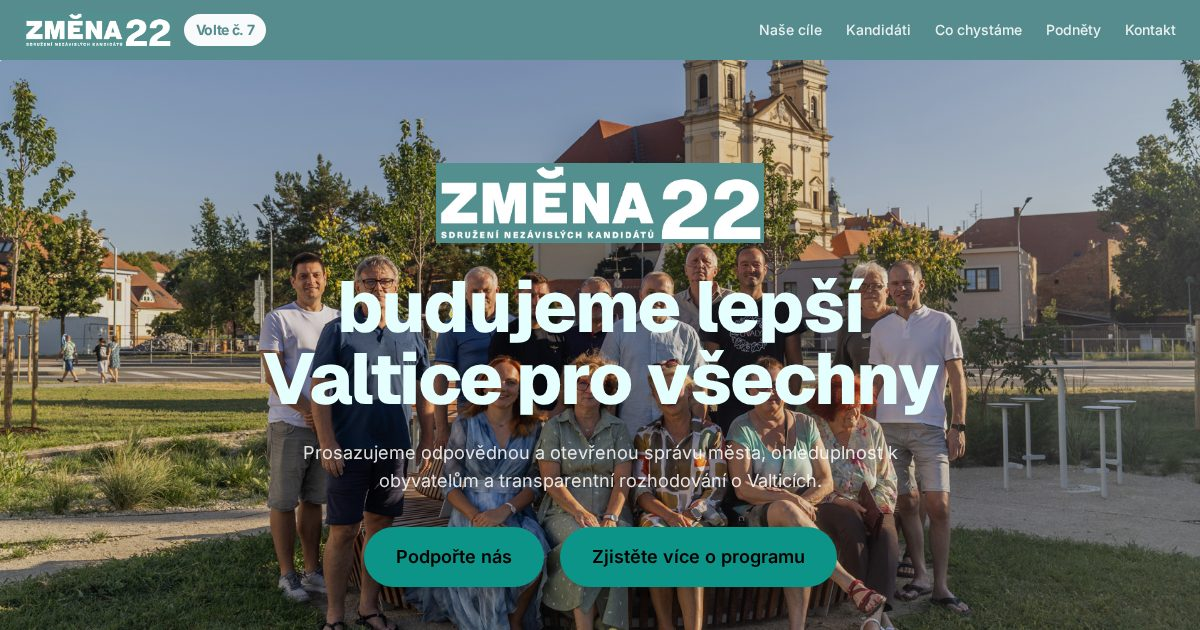
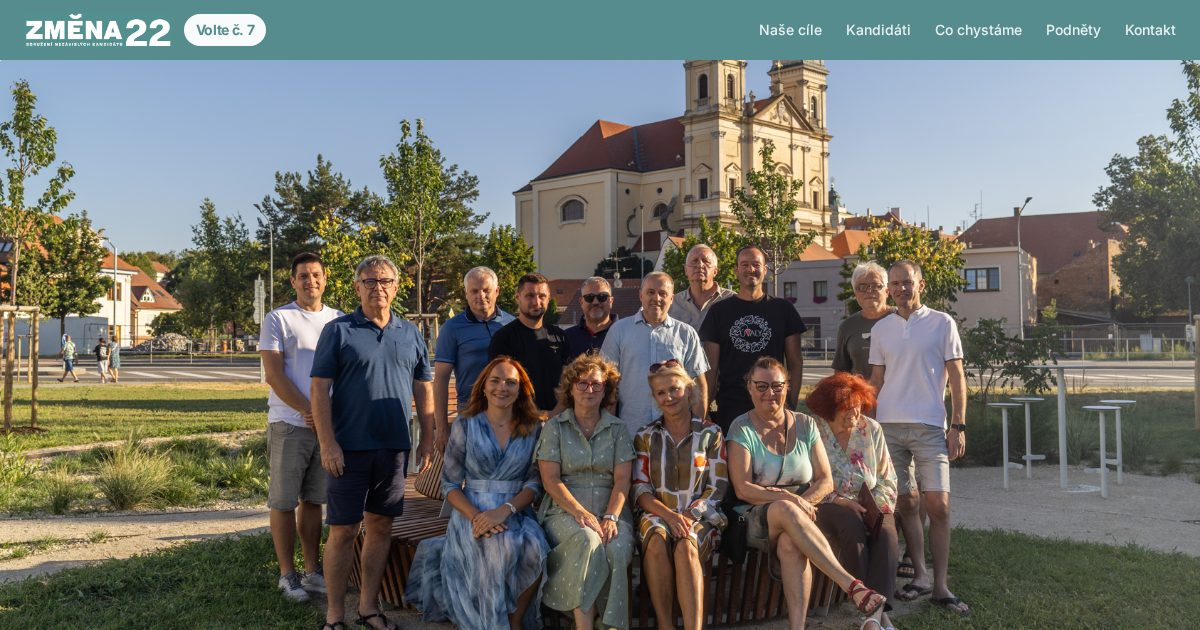
Deploy website: Změna22 Valtice

diff --git a/index.html b/index.html
@@ -3,6 +3,7 @@
   <head>
     <meta charset="UTF-8" />
     <meta name="viewport" content="width=device-width, initial-scale=1.0" />
+    <link rel="icon" href="/images/favicon-1.png" />
     <meta name="description" content="Vytvoř webovou stránku pro kampaň Změna22 ve Valticích. Web má obsahovat: 1) úvodní hero sekci se společnou stock fotografií týmu jako dočasným zástupným obrázkem, hlavním textem a výzvou; 2) sekci „Naše cíle / program“ s hlavními prioritami a plánovanými změnami; 3) sekci „Kandidáti“ s profilovými kartami kandidátů a zástupnými stock fotografiemi, které bude možné později vyměnit za skutečné fotografie; 4) sekci „Co chystáme“ s připravovanými kroky, projekty a aktivitami; 5) sekci „Co už se nám povedlo“ s dosavadními výsledky a konkrétními úspěchy; 6) samostatný formulář „Podněty od návštěvníků“ před kontaktním formulářem, umožňující odeslat nápad, připomínku nebo problém ve městě, s poli Jméno (nepovinné), E-mail (nepovinný), Téma podnětu, Popis podnětu, Lokalita nebo ulice (nepovinné) a možností přiložit fotografii; u formuláře použij text „Máte nápad nebo připomínku? Napište nám, co by podle vás ve Valticích mělo fungovat lépe. Každý podnět si přečteme a pomůže nám lépe hájit potřeby našeho města.“; 7) závěrečný kontaktní formulář s heslem „Pomozte nám změnit naše město“. Použij výrazný tyrkysovo-petrolejový vizuální styl inspirovaný plakátem kampaně a zajisti, aby šlo později snadno nahradit stock fotografie skutečnými podklady." />
     <meta property="og:title" content="Změna22 Valtice" />
     <meta property="og:description" content="Vytvoř webovou stránku pro kampaň Změna22 ve Valticích. Web má obsahovat: 1) úvodní hero sekci se společnou stock fotografií týmu jako dočasným zástupným obrázkem, hlavním textem a výzvou; 2) sekci „Naše cíle / program“ s hlavními prioritami a plánovanými změnami; 3) sekci „Kandidáti“ s profilovými kartami kandidátů a zástupnými stock fotografiemi, které bude možné později vyměnit za skutečné fotografie; 4) sekci „Co chystáme“ s připravovanými kroky, projekty a aktivitami; 5) sekci „Co už se nám povedlo“ s dosavadními výsledky a konkrétními úspěchy; 6) samostatný formulář „Podněty od návštěvníků“ před kontaktním formulářem, umožňující odeslat nápad, připomínku nebo problém ve městě, s poli Jméno (nepovinné), E-mail (nepovinný), Téma podnětu, Popis podnětu, Lokalita nebo ulice (nepovinné) a možností přiložit fotografii; u formuláře použij text „Máte nápad nebo připomínku? Napište nám, co by podle vás ve Valticích mělo fungovat lépe. Každý podnět si přečteme a pomůže nám lépe hájit potřeby našeho města.“; 7) závěrečný kontaktní formulář s heslem „Pomozte nám změnit naše město“. Použij výrazný tyrkysovo-petrolejový vizuální styl inspirovaný plakátem kampaně a zajisti, aby šlo později snadno nahradit stock fotografie skutečnými podklady." />
@@ -41,15 +42,15 @@
       </div>
       
     </header>
-    <section class="jean-scroll-stage jean-bg-fixed min-h-screen flex items-center relative overflow-hidden" data-jean-parallax-root="hero" style="background-color:rgba(0,0,0,0.15);background-image:linear-gradient(180deg, rgba(0,0,0,0.15) 0%, rgba(0,0,0,0.15) 100%), url(&quot;/images/tiles-1.png&quot;);background-size:cover;background-position:center center;background-repeat:no-repeat;border-radius:0.125rem" id="section_hero" data-section-id="section_hero" data-section-type="hero">
+    <section class="jean-scroll-stage jean-bg-fixed min-h-screen flex items-center relative overflow-hidden" data-jean-parallax-root="hero" style="background-color:rgba(0,0,0,0);min-height:100vh;display:flex;flex-direction:column;justify-content:center;background-image:url(&quot;/images/tiles-1.png&quot;);background-size:cover;background-position:center center;background-repeat:no-repeat;border-radius:0.125rem" id="section_hero" data-section-id="section_hero" data-section-type="hero">
       <div class="relative z-10 w-full">
         <div class="max-w-4xl mx-auto px-6 text-center jean-motion-layer jean-parallax-subtle relative" data-jean-reveal="true">
           
           <div class="relative">
-          <div class="mb-7 flex justify-center jean-motion-layer" data-jean-reveal="true"><img src="/images/logo-1.png" alt="budujeme lepší Valtice pro všechny" class="jean-brand-logo h-16 sm:h-20 w-auto object-contain"></div>
-          <h1 class="text-5xl lg:text-8xl tracking-tight" data-block-id="block_hero_heading" data-block-type="text.heading" style="color:#e5ffff;font-family:var(--font-heading);font-weight:800;font-size:clamp(3rem, 2rem + 3.4vw, 4.5rem)">budujeme lepší Valtice pro všechny</h1>
-          <p class="mt-6 text-lg max-w-2xl mx-auto" data-block-id="block_hero_text" data-block-type="text.paragraph" style="color:rgba(255,255,255,0.86);font-family:var(--font-body);font-weight:400">Prosazujeme odpovědnou a otevřenou správu města, ohleduplnost k obyvatelům a transparentní rozhodování o Valticích.</p>
-          <div class="mt-8 flex flex-row flex-wrap items-center justify-center gap-4"><a href="#section_nase_cile" class="jean-float inline-block px-8 py-4 font-semibold text-lg shadow-xl" style="border-radius:9999px;color:var(--color-on-primary, #fff);background-color:var(--color-primary);border:none">Podpořte nás</a><a href="#section_kontakt" class="jean-float inline-block px-8 py-4 font-semibold text-lg shadow-xl" style="border-radius:9999px;color:var(--color-on-primary, #fff);background-color:var(--color-primary);border:none">Zjistěte více o programu</a></div>
+          
+          <h1 class="text-5xl lg:text-8xl tracking-tight" data-block-id="block_hero_heading" data-block-type="text.heading" style="color:#e5ffff;font-family:var(--font-heading);font-weight:800;font-size:clamp(3rem, 2rem + 3.4vw, 4.5rem)"></h1>
+          <p class="mt-6 text-lg max-w-2xl mx-auto" data-block-id="block_hero_text" data-block-type="text.paragraph" style="color:rgba(255,255,255,0.86);font-family:var(--font-body);font-weight:400"></p>
+          
           
           </div>
         </div>
@@ -126,14 +127,7 @@
     <section class="py-20 lg:py-28 jean-section-shell jean-bg-mesh" style="background-color:#f8fafc;border-style:solid;border-color:#e2e8f0;border-width:1px;border-radius:0.75rem">
       <div class="max-w-7xl mx-auto px-6">
         <h2 class="text-3xl lg:text-4xl font-bold mb-4 text-center" data-block-id="block_candidates_heading" data-block-type="text.heading" style="color:var(--color-text);font-family:var(--font-heading)">Kandidáti ZMĚNA 22</h2>
-        <div class="jean-widget jean-widget--people" data-jean-capability="people" data-jean-columns="4"><div class="jean-person-grid"><article class="jean-person-card"><div class="jean-person-avatar"><img class="jean-person-photo" src="https://jeanai.onrender.com/v1/public/site-file/0894968c-b178-44c4-8c58-83ea0badd4b2" alt="Štěpánková Martina" loading="lazy"></div><div class="jean-person-body"><h3 class="jean-person-name">Štěpánková Martina</h3><p class="jean-person-role">Kandidátka na starostku</p><p class="jean-person-text">Loerm Ipsum dolor</p><p class="jean-person-date">55 let</p></div></article><article class="jean-person-card"><div class="jean-person-avatar"><span class="jean-person-initials" aria-hidden="true">MI</span></div><div class="jean-person-body"><h3 class="jean-person-name">MUDr. Igor Doubek</h3><p class="jean-person-role">lékař</p><p class="jean-person-date">61 let</p></div></article><article class="jean-person-card"><div class="jean-person-avatar"><img class="jean-person-photo" src="https://jeanai.onrender.com/v1/public/site-file/c4216b7c-454e-40c5-b7e9-f9dd7560d170" alt="Ing. Viktor Filipi" loading="lazy"></div><div class="jean-person-body"><h3 class="jean-person-name">Ing. Viktor Filipi</h3><p class="jean-person-role">pedagog, krajinářský architekt</p><p class="jean-person-date">38 let</p></div></article><article class="jean-person-card"><div class="jean-person-avatar"><img class="jean-person-photo" src="https://jeanai.onrender.com/v1/public/site-file/6a9f0ea4-bb25-49e7-95ea-a884fa2b223b" alt="JUDr. Hana Filipi Navrátilová" loading="lazy"></div><div class="jean-person-body"><h3 class="jean-person-name">JUDr. Hana Filipi Navrátilová</h3><p class="jean-person-role">advokátka</p><p class="jean-person-date">35 let</p></div></article></div></div>
-      </div>
-    </section>
-    </div>
-    <div id="section_content_group_mtuhhshf_qwqns9" class="jean-motion-layer" data-jean-reveal="true" data-section-id="section_content_group_mtuhhshf_qwqns9" data-section-type="content_group" data-jean-bg-fixed="1">
-    <section class="py-16 lg:py-20 jean-section-shell" style="background-color:#f8fafc;min-height:24rem;display:flex;flex-direction:column;justify-content:center;background-image:url(&quot;/images/tiles-2.png&quot;);background-size:cover;background-position:center center;background-repeat:no-repeat;border-radius:0.375rem">
-      <div class="jean-rhythm-wide mx-auto px-6 flex flex-col gap-6">
-        
+        <div class="jean-widget jean-widget--people" data-jean-capability="people" data-jean-columns="4"><div class="jean-person-grid"><article class="jean-person-card"><div class="jean-person-avatar"><img class="jean-person-photo" src="https://jeanai.onrender.com/v1/public/site-file/0894968c-b178-44c4-8c58-83ea0badd4b2" alt="Martina Štěpánková" loading="lazy"></div><div class="jean-person-body"><h3 class="jean-person-name">Martina Štěpánková</h3><p class="jean-person-role">Kandidátka na starostku</p><p class="jean-person-text">úřednice</p><p class="jean-person-date">55 let</p></div></article><article class="jean-person-card"><div class="jean-person-avatar"><span class="jean-person-initials" aria-hidden="true">MI</span></div><div class="jean-person-body"><h3 class="jean-person-name">MUDr. Igor Doubek</h3><p class="jean-person-role">lékař</p><p class="jean-person-date">61 let</p></div></article><article class="jean-person-card"><div class="jean-person-avatar"><img class="jean-person-photo" src="https://jeanai.onrender.com/v1/public/site-file/c4216b7c-454e-40c5-b7e9-f9dd7560d170" alt="Ing. Viktor Filipi" loading="lazy"></div><div class="jean-person-body"><h3 class="jean-person-name">Ing. Viktor Filipi</h3><p class="jean-person-role">pedagog, krajinářský architekt</p><p class="jean-person-date">38 let</p></div></article><article class="jean-person-card"><div class="jean-person-avatar"><img class="jean-person-photo" src="https://jeanai.onrender.com/v1/public/site-file/6a9f0ea4-bb25-49e7-95ea-a884fa2b223b" alt="JUDr. Hana Filipi Navrátilová" loading="lazy"></div><div class="jean-person-body"><h3 class="jean-person-name">JUDr. Hana Filipi Navrátilová</h3><p class="jean-person-role">advokátka</p><p class="jean-person-date">35 let</p></div></article></div></div>
       </div>
     </section>
     </div>
@@ -155,15 +149,6 @@
             <h3 class="text-xl font-semibold mb-2" style="color:var(--color-text)">Přehled plánovaných investic</h3><p style="color:var(--color-muted)">Srozumitelně představit priority, termíny a očekávaný přínos připravovaných záměrů.</p>
           </article></div>
         
-      </div>
-    </section>
-    </div>
-    <div id="section_co_se_povedlo" class="jean-motion-layer" data-jean-reveal="true" data-section-id="section_co_se_povedlo" data-section-type="content_group">
-    <section class="py-16 lg:py-20 jean-section-shell" style="background-color:var(--color-surface-strong)">
-      <div class="jean-rhythm-wide mx-auto px-6 flex flex-col gap-6">
-        <div><h2 data-block-id="block_results_heading" data-block-type="text.heading" style="font-size:2rem;font-weight:700;color:var(--color-text)">Co už se nám povedlo</h2></div>
-        <div><p data-block-id="block_results_text" data-block-type="text.paragraph" style="color:#64748B;line-height:1.6;font-weight:400">Tato část je připravena pro doplnění konkrétních, ověřitelných výsledků a aktivit kampaně. V současnosti nebyly dohledány žádné konkrétní ověřené úspěchy, proto zde záměrně neuvádíme žádná tvrzení.</p></div>
-        <div><span data-block-id="block_results_todo" data-block-type="badge" style="display:inline-block;padding:.25rem .625rem;border-radius:.375rem;font-size:.75rem;font-weight:600;color:var(--color-on-primary, #fff);background-color:var(--color-primary)">TODO: Doplnit pouze skutečné a ověřitelné výsledky poskytnuté kampaní.</span></div>
       </div>
     </section>
     </div>
@@ -202,15 +187,24 @@
       </div>
     </section>
     </div>
+    <div id="section_co_se_povedlo" class="jean-motion-layer" data-jean-reveal="true" data-section-id="section_co_se_povedlo" data-section-type="content_group">
+    <section class="py-16 lg:py-20 jean-section-shell" style="background-color:var(--color-surface-strong)">
+      <div class="jean-rhythm-wide mx-auto px-6 flex flex-col gap-6">
+        <div><h2 data-block-id="block_results_heading" data-block-type="text.heading" style="font-size:2rem;font-weight:700;color:var(--color-text)">Co už se nám povedlo</h2></div>
+        <div><p data-block-id="block_results_text" data-block-type="text.paragraph" style="color:#64748B;line-height:1.6;font-weight:400">Tato část je připravena pro doplnění konkrétních, ověřitelných výsledků a aktivit kampaně. V současnosti nebyly dohledány žádné konkrétní ověřené úspěchy, proto zde záměrně neuvádíme žádná tvrzení.</p></div>
+        <div><span data-block-id="block_results_todo" data-block-type="badge" style="display:inline-block;padding:.25rem .625rem;border-radius:.375rem;font-size:.75rem;font-weight:600;color:var(--color-on-primary, #fff);background-color:var(--color-primary)">TODO: Doplnit pouze skutečné a ověřitelné výsledky poskytnuté kampaní.</span></div>
+      </div>
+    </section>
+    </div>
     <div class="jean-motion-layer" data-jean-reveal="true" id="section_suggestions_mtu0vy2j_u8udcu" data-section-id="section_suggestions_mtu0vy2j_u8udcu" data-section-type="suggestions">
     <section class="py-20 lg:py-28 jean-section-shell jean-bg-mesh" style="background-color:#f8fafc;border-style:solid;border-color:#e2e8f0;border-width:1px;border-radius:0.75rem">
       <div class="max-w-5xl mx-auto px-6">
-        <div class="jean-widget jean-widget--suggestions" data-jean-capability="suggestions"><div class="jean-suggestion-grid"><article class="jean-suggestion-card"><img class="jean-suggestion-photo" src="https://jeanai.onrender.com/v1/public/site-file/4bfffc31-d004-4ae3-99c5-830a0f528577" alt="test" loading="lazy"><div class="jean-suggestion-body"><h3 class="jean-suggestion-title">test</h3><p class="jean-suggestion-text">Lorem Ipsum ceho se tyka dolor si amet. Lorem Ipsum ceho se tyka dolor si amet. Lorem Ipsum ceho se tyka dolor si amet.</p><p class="jean-suggestion-meta"><span class="jean-suggestion-author">Váš Žán Baklažán</span><time class="jean-suggestion-date" datetime="2026-09-09T18:12:31.611Z">9. září 2026</time></p></div></article></div></div>
+        <div class="jean-widget jean-widget--suggestions" data-jean-capability="suggestions"><div class="jean-suggestion-grid"><article class="jean-suggestion-card"><img class="jean-suggestion-photo" src="https://jeanai.onrender.com/v1/public/site-file/73c35264-0a67-4e0c-8dd8-a4987a6b1609" alt="Silnice" loading="lazy"><div class="jean-suggestion-body"><h3 class="jean-suggestion-title">Silnice</h3><p class="jean-suggestion-text">opravit silnici a chodníky</p><p class="jean-suggestion-meta"><span class="jean-suggestion-author">Viktor Filipi</span><time class="jean-suggestion-date" datetime="2026-09-10T09:31:59.104Z">10. září 2026</time></p></div></article><article class="jean-suggestion-card"><div class="jean-suggestion-body"><h3 class="jean-suggestion-title">TEST 2</h3><p class="jean-suggestion-text">Máte nápad nebo připomínku? Napište nám, co by podle vás ve Valticích mělo fungovat lépe. Každý podnět si přečteme a pomůže nám lépe hájit potřeby našeho města. Máte nápad nebo připomínku? Napište nám, co by podle vás ve Valticích mělo fungovat lépe. Každý podnět si přečteme a pomůže nám lépe hájit potřeby našeho města. HELLO WORLD - Příliš žluťoučký kůň úpěl ďábelské ódy. Příliš žluťoučký kůň úpě</p><p class="jean-suggestion-meta"><span class="jean-suggestion-author">Příliš žluťoučký kůň úpěl ďábelské ódy</span><time class="jean-suggestion-date" datetime="2026-09-09T20:26:11.008Z">9. září 2026</time></p></div></article><article class="jean-suggestion-card"><img class="jean-suggestion-photo" src="https://jeanai.onrender.com/v1/public/site-file/4bfffc31-d004-4ae3-99c5-830a0f528577" alt="test" loading="lazy"><div class="jean-suggestion-body"><h3 class="jean-suggestion-title">test</h3><p class="jean-suggestion-text">Lorem Ipsum ceho se tyka dolor si amet. Lorem Ipsum ceho se tyka dolor si amet. Lorem Ipsum ceho se tyka dolor si amet.</p><p class="jean-suggestion-meta"><span class="jean-suggestion-author">Váš Žán Baklažán</span><time class="jean-suggestion-date" datetime="2026-09-09T18:12:31.611Z">9. září 2026</time></p></div></article></div></div>
       </div>
     </section>
     </div>
     <div class="jean-motion-layer" data-jean-reveal="true" id="section_kontakt" data-section-id="section_kontakt" data-section-type="contact">
-    <section id="contact" class="py-20 lg:py-28 jean-section-shell" style="background-color:var(--color-surface-tint)">
+    <section id="contact" class="py-20 lg:py-28 jean-section-shell" style="background-color:var(--color-bg-alt)">
       <div class="jean-rhythm-tight mx-auto px-6">
         <h2 class="text-3xl lg:text-4xl font-bold text-center mb-5" data-block-id="block_contact_heading" data-block-type="text.heading" style="color:var(--color-text);font-family:var(--font-heading)">Pomozte nám změnit naše město</h2>
         <div class="max-w-3xl mx-auto text-center mb-12 flex flex-col gap-4"><div><p data-block-id="block_contact_intro" data-block-type="text.paragraph" style="color:var(--color-text);line-height:1.6;font-weight:400">Máte otázku, nabídku spolupráce nebo chcete pomoci kampani? Kontaktní údaje doplníme, jakmile budou oficiálně potvrzeny.</p></div></div>

diff --git a/soukromi.html b/soukromi.html
@@ -1,1 +1,1 @@
-<!doctype html><html lang="cs"><head><meta charset="utf-8"><meta name="viewport" content="width=device-width, initial-scale=1"><title>Zásady ochrany osobních údajů</title><style>:root{color-scheme:light}body{margin:0;background:#FFFFFF;color:#111827;font-family:ui-sans-serif,system-ui,-apple-system,'Segoe UI',sans-serif;font-size:16px;line-height:1.65}main{max-width:44rem;margin:0 auto;padding:48px 20px 32px}h1{font-size:1.75rem;line-height:1.25;margin:0 0 8px}h2{font-size:1.1rem;margin:32px 0 8px}p{margin:0 0 12px}ul{margin:0 0 12px;padding-left:1.25rem}li{margin:0 0 4px}a{color:#1D4ED8}.jean-back{display:inline-block;margin-bottom:24px;font-size:0.9rem}.jean-controller{font-weight:600}.jean-updated{margin-top:32px;font-size:0.85rem;color:#4B5563}</style></head><body><main><a class="jean-back" href="/">Zpět na úvodní stránku</a><h1>Zásady ochrany osobních údajů</h1><p>Tyto zásady popisují, jaké osobní údaje se na tomto webu zpracovávají, kdy k tomu dochází a jaká máte práva. Informace poskytujeme podle článku 13 nařízení (EU) 2016/679 (GDPR).</p><section><h2>Správce osobních údajů</h2><p>Správcem osobních údajů je provozovatel těchto stránek:</p><p class="jean-controller">Změna22 Valtice</p></section><section><h2>Zpracovatel</h2><p>Tyto stránky byly vytvořeny na platformě JeanAI. Údaje odeslané prostřednictvím formulářů na tomto webu i požadavky živě načítaných částí stránky směřují na servery této platformy. Provozovatel platformy je v tomto rozsahu zpracovatelem osobních údajů a zpracovává je pouze podle pokynů správce.</p><p><a href="https://jeanai.cz" rel="noopener">jeanai.cz</a></p></section><section><h2>Jaké údaje se zpracovávají a kdy</h2><p>Kontaktní formulář: údaje, které do formuláře vyplníte (zpravidla jméno, e-mail a text zprávy), se odesílají teprve ve chvíli, kdy formulář sami odešlete. Slouží k tomu, aby vám provozovatel mohl odpovědět.</p><p>Živě načítaný obsah (lidé): tyto části stránky se při otevření stránky načítají ze serverů platformy JeanAI. Server přitom vidí vaši IP adresu a údaje, které váš prohlížeč běžně posílá, včetně adresy stránky, ze které přicházíte.</p><p>Některé části těchto stránek (například obrázek) se načítají ze serveru třetí strany. Ten při jejich načtení vidí vaši IP adresu a údaje vašeho prohlížeče.</p></section><section><h2>Cookies a údaje ukládané ve vašem zařízení</h2><p>Některé prvky tohoto webu mohou do vašeho zařízení ukládat údaje nezbytné pro své fungování.</p></section><section><h2>Právní základ zpracování</h2><p>Údaje z kontaktního formuláře zpracováváme na základě oprávněného zájmu na vyřízení vašeho dotazu, případně pro jednání o smlouvě, pokud se dotaz smlouvy týká.</p></section><section><h2>Jak dlouho údaje uchováváme</h2><p>Údaje uchováváme jen po dobu nezbytnou k účelu, pro který byly poskytnuty, a poté je mažeme. Konkrétní dobu vám na vyžádání sdělíme.</p></section><section><h2>Provoz a zabezpečení stránek</h2><p>Poskytovatel hostingu zpracovává technické údaje o připojení v rozsahu nezbytném pro provoz a zabezpečení stránek.</p></section><section><h2>Vaše práva</h2><p>Ve vztahu ke svým osobním údajům máte tato práva:</p><ul><li>právo na přístup ke svým údajům</li><li>právo na opravu nepřesných údajů</li><li>právo na výmaz</li><li>právo na omezení zpracování</li><li>právo na přenositelnost údajů</li><li>právo vznést námitku proti zpracování</li><li>právo odvolat souhlas tam, kde je zpracování na souhlasu založeno</li></ul><p>Svá práva uplatníte u správce uvedeného výše. Máte také právo podat stížnost u Úřadu pro ochranu osobních údajů (uoou.gov.cz).</p></section><p class="jean-updated">Poslední aktualizace: 2026-09-09</p></main><div data-jean-identification="1" aria-label="Údaje o provozovateli" style="background:#E2E8F0!important;color:#111827!important;font-family:var(--font-body, ui-sans-serif), system-ui, -apple-system, sans-serif;font-size:13px!important;line-height:1.6!important;padding:20px 24px;text-align:center;word-break:break-word;display:block!important;visibility:visible!important;opacity:1!important;position:static!important;height:auto!important;max-height:none!important;overflow:visible!important;clip-path:none!important;transform:none!important;content-visibility:visible!important"><span style="display:block!important;visibility:visible!important;opacity:1!important;color:inherit!important;font-size:13px!important;line-height:1.6!important;position:static!important;height:auto!important;max-height:none!important;overflow:visible!important;clip-path:none!important;transform:none!important;text-indent:0!important;letter-spacing:normal!important;word-spacing:normal!important;content-visibility:visible!important"><img src="/images/logo-1.png" alt="" loading="eager" decoding="async" style="display:inline-block!important;visibility:visible!important;opacity:1!important;position:static!important;height:auto!important;max-height:44px!important;width:auto!important;max-width:240px!important;object-fit:contain!important;overflow:visible!important;clip-path:none!important;transform:none!important;content-visibility:visible!important;margin:0 0 4px"></span><span style="display:block!important;visibility:visible!important;opacity:1!important;color:inherit!important;font-size:13px!important;line-height:1.6!important;position:static!important;height:auto!important;max-height:none!important;overflow:visible!important;clip-path:none!important;transform:none!important;text-indent:0!important;letter-spacing:normal!important;word-spacing:normal!important;content-visibility:visible!important">Změna22 Valtice</span><span style="display:block!important;visibility:visible!important;opacity:1!important;color:inherit!important;font-size:13px!important;line-height:1.6!important;position:static!important;height:auto!important;max-height:none!important;overflow:visible!important;clip-path:none!important;transform:none!important;text-indent:0!important;letter-spacing:normal!important;word-spacing:normal!important;content-visibility:visible!important"><a href="/soukromi.html" style="display:inline!important;text-decoration:underline;visibility:visible!important;opacity:1!important;color:inherit!important;font-size:13px!important;line-height:1.6!important;position:static!important;height:auto!important;max-height:none!important;overflow:visible!important;clip-path:none!important;transform:none!important;text-indent:0!important;letter-spacing:normal!important;word-spacing:normal!important;content-visibility:visible!important">Zásady ochrany osobních údajů</a></span><span style="display:block!important;visibility:visible!important;opacity:1!important;color:inherit!important;font-size:13px!important;line-height:1.6!important;position:static!important;height:auto!important;max-height:none!important;overflow:visible!important;clip-path:none!important;transform:none!important;text-indent:0!important;letter-spacing:normal!important;word-spacing:normal!important;content-visibility:visible!important"><a href="https://jeanai.cz" rel="noopener" style="display:inline!important;text-decoration:underline;visibility:visible!important;opacity:1!important;color:inherit!important;font-size:13px!important;line-height:1.6!important;position:static!important;height:auto!important;max-height:none!important;overflow:visible!important;clip-path:none!important;transform:none!important;text-indent:0!important;letter-spacing:normal!important;word-spacing:normal!important;content-visibility:visible!important">Vytvořeno v JeanAI</a></span></div></body></html>
+<!doctype html><html lang="cs"><head><meta charset="utf-8"><meta name="viewport" content="width=device-width, initial-scale=1"><title>Zásady ochrany osobních údajů</title><style>:root{color-scheme:light}body{margin:0;background:#FFFFFF;color:#111827;font-family:ui-sans-serif,system-ui,-apple-system,'Segoe UI',sans-serif;font-size:16px;line-height:1.65}main{max-width:44rem;margin:0 auto;padding:48px 20px 32px}h1{font-size:1.75rem;line-height:1.25;margin:0 0 8px}h2{font-size:1.1rem;margin:32px 0 8px}p{margin:0 0 12px}ul{margin:0 0 12px;padding-left:1.25rem}li{margin:0 0 4px}a{color:#1D4ED8}.jean-back{display:inline-block;margin-bottom:24px;font-size:0.9rem}.jean-controller{font-weight:600}.jean-updated{margin-top:32px;font-size:0.85rem;color:#4B5563}</style></head><body><main><a class="jean-back" href="/">Zpět na úvodní stránku</a><h1>Zásady ochrany osobních údajů</h1><p>Tyto zásady popisují, jaké osobní údaje se na tomto webu zpracovávají, kdy k tomu dochází a jaká máte práva. Informace poskytujeme podle článku 13 nařízení (EU) 2016/679 (GDPR).</p><section><h2>Správce osobních údajů</h2><p>Správcem osobních údajů je provozovatel těchto stránek:</p><p class="jean-controller">Změna22 Valtice</p></section><section><h2>Zpracovatel</h2><p>Tyto stránky byly vytvořeny na platformě JeanAI. Údaje odeslané prostřednictvím formulářů na tomto webu i požadavky živě načítaných částí stránky směřují na servery této platformy. Provozovatel platformy je v tomto rozsahu zpracovatelem osobních údajů a zpracovává je pouze podle pokynů správce.</p><p><a href="https://jeanai.cz" rel="noopener">jeanai.cz</a></p></section><section><h2>Jaké údaje se zpracovávají a kdy</h2><p>Kontaktní formulář: údaje, které do formuláře vyplníte (zpravidla jméno, e-mail a text zprávy), se odesílají teprve ve chvíli, kdy formulář sami odešlete. Slouží k tomu, aby vám provozovatel mohl odpovědět.</p><p>Živě načítaný obsah (lidé): tyto části stránky se při otevření stránky načítají ze serverů platformy JeanAI. Server přitom vidí vaši IP adresu a údaje, které váš prohlížeč běžně posílá, včetně adresy stránky, ze které přicházíte.</p><p>Některé části těchto stránek (například obrázek) se načítají ze serveru třetí strany. Ten při jejich načtení vidí vaši IP adresu a údaje vašeho prohlížeče.</p></section><section><h2>Cookies a údaje ukládané ve vašem zařízení</h2><p>Některé prvky tohoto webu mohou do vašeho zařízení ukládat údaje nezbytné pro své fungování.</p></section><section><h2>Právní základ zpracování</h2><p>Údaje z kontaktního formuláře zpracováváme na základě oprávněného zájmu na vyřízení vašeho dotazu, případně pro jednání o smlouvě, pokud se dotaz smlouvy týká.</p></section><section><h2>Jak dlouho údaje uchováváme</h2><p>Údaje uchováváme jen po dobu nezbytnou k účelu, pro který byly poskytnuty, a poté je mažeme. Konkrétní dobu vám na vyžádání sdělíme.</p></section><section><h2>Provoz a zabezpečení stránek</h2><p>Poskytovatel hostingu zpracovává technické údaje o připojení v rozsahu nezbytném pro provoz a zabezpečení stránek.</p></section><section><h2>Vaše práva</h2><p>Ve vztahu ke svým osobním údajům máte tato práva:</p><ul><li>právo na přístup ke svým údajům</li><li>právo na opravu nepřesných údajů</li><li>právo na výmaz</li><li>právo na omezení zpracování</li><li>právo na přenositelnost údajů</li><li>právo vznést námitku proti zpracování</li><li>právo odvolat souhlas tam, kde je zpracování na souhlasu založeno</li></ul><p>Svá práva uplatníte u správce uvedeného výše. Máte také právo podat stížnost u Úřadu pro ochranu osobních údajů (uoou.gov.cz).</p></section><p class="jean-updated">Poslední aktualizace: 2026-09-10</p></main><div data-jean-identification="1" aria-label="Údaje o provozovateli" style="background:#E2E8F0!important;color:#111827!important;font-family:var(--font-body, ui-sans-serif), system-ui, -apple-system, sans-serif;font-size:13px!important;line-height:1.6!important;padding:20px 24px;text-align:center;word-break:break-word;display:block!important;visibility:visible!important;opacity:1!important;position:static!important;height:auto!important;max-height:none!important;overflow:visible!important;clip-path:none!important;transform:none!important;content-visibility:visible!important"><span style="display:block!important;visibility:visible!important;opacity:1!important;color:inherit!important;font-size:13px!important;line-height:1.6!important;position:static!important;height:auto!important;max-height:none!important;overflow:visible!important;clip-path:none!important;transform:none!important;text-indent:0!important;letter-spacing:normal!important;word-spacing:normal!important;content-visibility:visible!important"><img src="/images/logo-1.png" alt="" loading="eager" decoding="async" style="display:inline-block!important;visibility:visible!important;opacity:1!important;position:static!important;height:auto!important;max-height:44px!important;width:auto!important;max-width:240px!important;object-fit:contain!important;overflow:visible!important;clip-path:none!important;transform:none!important;content-visibility:visible!important;margin:0 0 4px"></span><span style="display:block!important;visibility:visible!important;opacity:1!important;color:inherit!important;font-size:13px!important;line-height:1.6!important;position:static!important;height:auto!important;max-height:none!important;overflow:visible!important;clip-path:none!important;transform:none!important;text-indent:0!important;letter-spacing:normal!important;word-spacing:normal!important;content-visibility:visible!important">Změna22 Valtice</span><span style="display:block!important;visibility:visible!important;opacity:1!important;color:inherit!important;font-size:13px!important;line-height:1.6!important;position:static!important;height:auto!important;max-height:none!important;overflow:visible!important;clip-path:none!important;transform:none!important;text-indent:0!important;letter-spacing:normal!important;word-spacing:normal!important;content-visibility:visible!important"><a href="/soukromi.html" style="display:inline!important;text-decoration:underline;visibility:visible!important;opacity:1!important;color:inherit!important;font-size:13px!important;line-height:1.6!important;position:static!important;height:auto!important;max-height:none!important;overflow:visible!important;clip-path:none!important;transform:none!important;text-indent:0!important;letter-spacing:normal!important;word-spacing:normal!important;content-visibility:visible!important">Zásady ochrany osobních údajů</a></span><span style="display:block!important;visibility:visible!important;opacity:1!important;color:inherit!important;font-size:13px!important;line-height:1.6!important;position:static!important;height:auto!important;max-height:none!important;overflow:visible!important;clip-path:none!important;transform:none!important;text-indent:0!important;letter-spacing:normal!important;word-spacing:normal!important;content-visibility:visible!important"><a href="https://jeanai.cz" rel="noopener" style="display:inline!important;text-decoration:underline;visibility:visible!important;opacity:1!important;color:inherit!important;font-size:13px!important;line-height:1.6!important;position:static!important;height:auto!important;max-height:none!important;overflow:visible!important;clip-path:none!important;transform:none!important;text-indent:0!important;letter-spacing:normal!important;word-spacing:normal!important;content-visibility:visible!important">Vytvořeno v JeanAI</a></span></div></body></html>

diff --git a/assets/utilities.css b/assets/utilities.css
@@ -215,9 +215,6 @@
   .mt-6 {
     margin-top: calc(var(--spacing) * 6);
   }
-  .mt-8 {
-    margin-top: calc(var(--spacing) * 8);
-  }
   .mt-auto {
     margin-top: auto;
   }
@@ -232,9 +229,6 @@
   }
   .mb-5 {
     margin-bottom: calc(var(--spacing) * 5);
-  }
-  .mb-7 {
-    margin-bottom: calc(var(--spacing) * 7);
   }
   .mb-8 {
     margin-bottom: calc(var(--spacing) * 8);
@@ -251,9 +245,6 @@
   .hidden {
     display: none;
   }
-  .inline-block {
-    display: inline-block;
-  }
   .inline-flex {
     display: inline-flex;
   }
@@ -265,9 +256,6 @@
   }
   .h-11 {
     height: calc(var(--spacing) * 11);
-  }
-  .h-16 {
-    height: calc(var(--spacing) * 16);
   }
   .h-full {
     height: 100%;
@@ -319,12 +307,6 @@
   }
   .flex-col {
     flex-direction: column;
-  }
-  .flex-row {
-    flex-direction: row;
-  }
-  .flex-wrap {
-    flex-wrap: wrap;
   }
   .items-center {
     align-items: center;
@@ -412,9 +394,6 @@
   .px-6 {
     padding-inline: calc(var(--spacing) * 6);
   }
-  .px-8 {
-    padding-inline: calc(var(--spacing) * 8);
-  }
   .py-1\.5 {
     padding-block: calc(var(--spacing) * 1.5);
   }
@@ -423,9 +402,6 @@
   }
   .py-3 {
     padding-block: calc(var(--spacing) * 3);
-  }
-  .py-4 {
-    padding-block: calc(var(--spacing) * 4);
   }
   .py-10 {
     padding-block: calc(var(--spacing) * 10);
@@ -478,10 +454,6 @@
   .whitespace-nowrap {
     white-space: nowrap;
   }
-  .shadow-xl {
-    --tw-shadow: 0 20px 25px -5px var(--tw-shadow-color, rgb(0 0 0 / 0.1)), 0 8px 10px -6px var(--tw-shadow-color, rgb(0 0 0 / 0.1));
-    box-shadow: var(--tw-inset-shadow), var(--tw-inset-ring-shadow), var(--tw-ring-offset-shadow), var(--tw-ring-shadow), var(--tw-shadow);
-  }
   .transition-opacity {
     transition-property: opacity;
     transition-timing-function: var(--tw-ease, var(--default-transition-timing-function));
@@ -498,11 +470,6 @@
   }
   .disabled\:opacity-60:disabled {
     opacity: 60%;
-  }
-  @media (width >= 40rem) {
-    .sm\:h-20 {
-      height: calc(var(--spacing) * 20);
-    }
   }
   @media (width >= 48rem) {
     .md\:flex {
@@ -555,91 +522,12 @@
   syntax: "*";
   inherits: false;
 }
-@property --tw-shadow {
-  syntax: "*";
-  inherits: false;
-  initial-value: 0 0 #0000;
-}
-@property --tw-shadow-color {
-  syntax: "*";
-  inherits: false;
-}
-@property --tw-shadow-alpha {
-  syntax: "<percentage>";
-  inherits: false;
-  initial-value: 100%;
-}
-@property --tw-inset-shadow {
-  syntax: "*";
-  inherits: false;
-  initial-value: 0 0 #0000;
-}
-@property --tw-inset-shadow-color {
-  syntax: "*";
-  inherits: false;
-}
-@property --tw-inset-shadow-alpha {
-  syntax: "<percentage>";
-  inherits: false;
-  initial-value: 100%;
-}
-@property --tw-ring-color {
-  syntax: "*";
-  inherits: false;
-}
-@property --tw-ring-shadow {
-  syntax: "*";
-  inherits: false;
-  initial-value: 0 0 #0000;
-}
-@property --tw-inset-ring-color {
-  syntax: "*";
-  inherits: false;
-}
-@property --tw-inset-ring-shadow {
-  syntax: "*";
-  inherits: false;
-  initial-value: 0 0 #0000;
-}
-@property --tw-ring-inset {
-  syntax: "*";
-  inherits: false;
-}
-@property --tw-ring-offset-width {
-  syntax: "<length>";
-  inherits: false;
-  initial-value: 0px;
-}
-@property --tw-ring-offset-color {
-  syntax: "*";
-  inherits: false;
-  initial-value: #fff;
-}
-@property --tw-ring-offset-shadow {
-  syntax: "*";
-  inherits: false;
-  initial-value: 0 0 #0000;
-}
 @layer properties {
   @supports ((-webkit-hyphens: none) and (not (margin-trim: inline))) or ((-moz-orient: inline) and (not (color:rgb(from red r g b)))) {
     *, ::before, ::after, ::backdrop {
       --tw-border-style: solid;
       --tw-font-weight: initial;
       --tw-tracking: initial;
-      --tw-shadow: 0 0 #0000;
-      --tw-shadow-color: initial;
-      --tw-shadow-alpha: 100%;
-      --tw-inset-shadow: 0 0 #0000;
-      --tw-inset-shadow-color: initial;
-      --tw-inset-shadow-alpha: 100%;
-      --tw-ring-color: initial;
-      --tw-ring-shadow: 0 0 #0000;
-      --tw-inset-ring-color: initial;
-      --tw-inset-ring-shadow: 0 0 #0000;
-      --tw-ring-inset: initial;
-      --tw-ring-offset-width: 0px;
-      --tw-ring-offset-color: #fff;
-      --tw-ring-offset-shadow: 0 0 #0000;
     }
   }
 }
